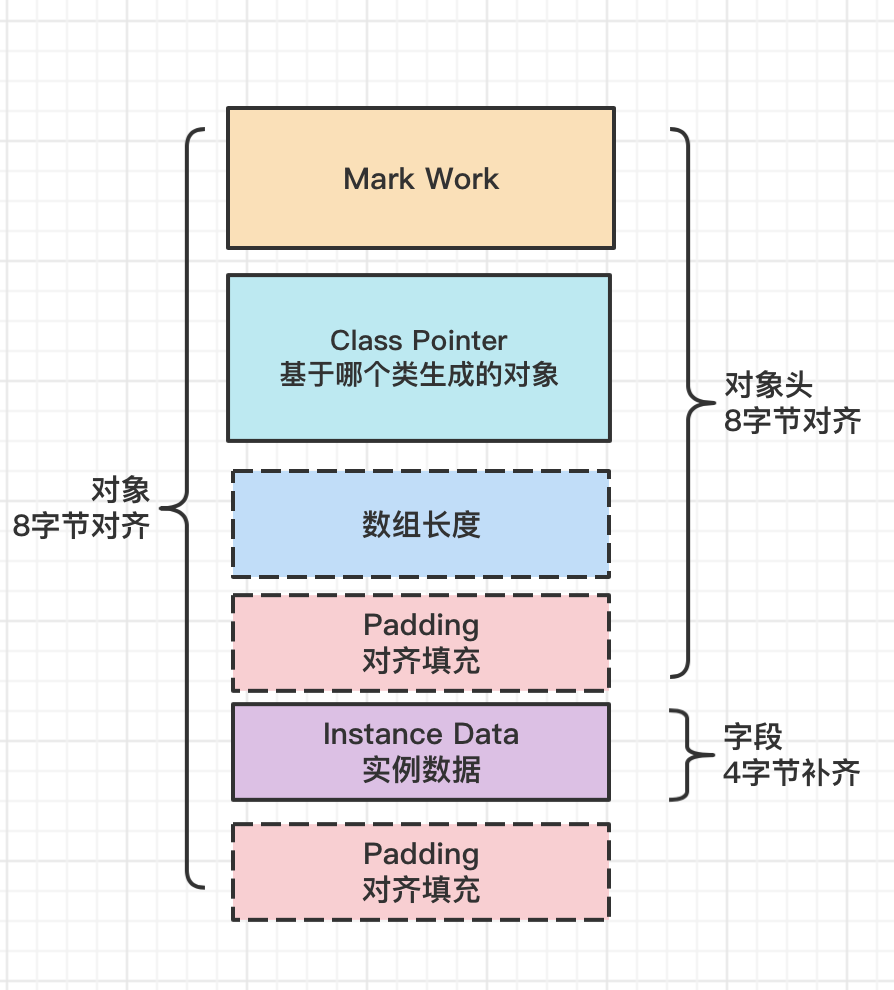
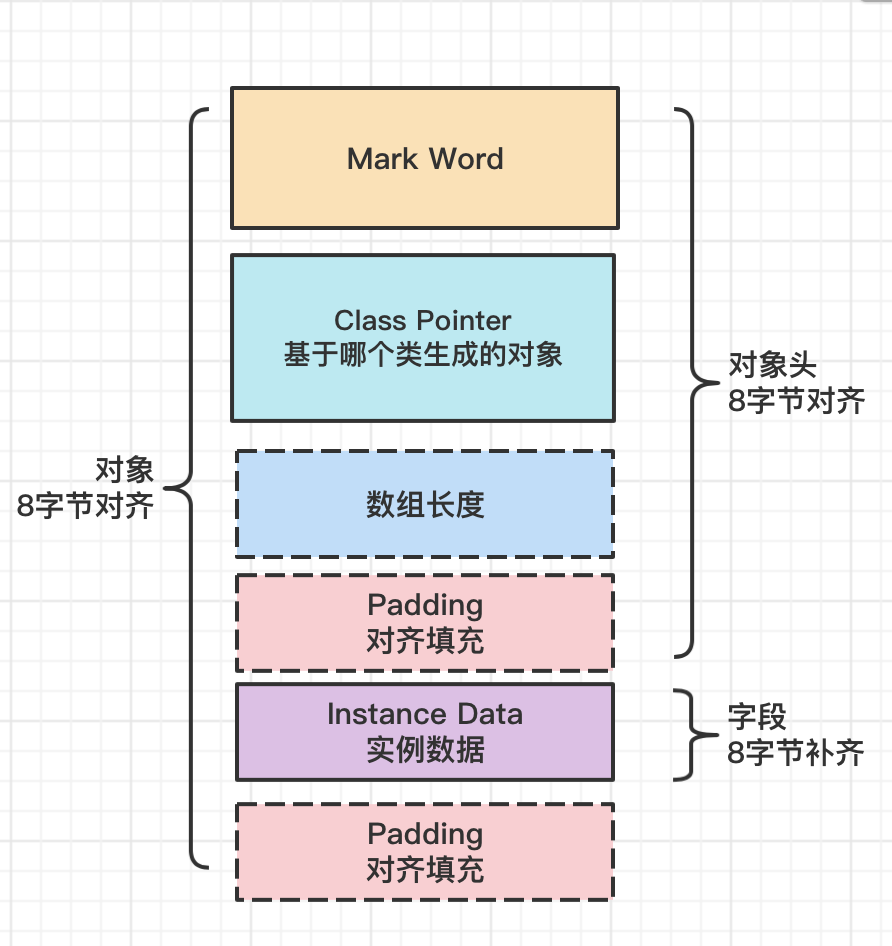
fix: 修改内容以及图片错别字

diff --git a/_posts/2022-04-10-Java对象的内存布局.md b/_posts/2022-04-10-Java对象的内存布局.md
@@ -35,7 +35,7 @@
 
 #### 详情
 
-* Mark Work
+* Mark Word
   * 4B: 32bit系统
   * 8B: 64bit系统
 * Class Pointer
@@ -62,7 +62,7 @@
 
 #### 详情
 
-* Mark Work
+* Mark Word
   * 4B: 32bit系统
   * 8B: 64bit系统
 * Class Pointer
@@ -123,7 +123,7 @@ public class EmptyObjectMemoryLayout {
 
 ![use-compress-empty-object](/img/assets/object-memory-layout/use-compress-empty-object.png)
 
-对象大小 = 对象头 + 类型指针 + 数组长度 + 实例数据(字段4字节补齐) + 对齐填充
+对象大小 = Mark Word + 类型指针 + 数组长度 + 实例数据(字段4字节补齐) + 对齐填充
 
 16B = (4 + 4) + 4 + 0 + 0 + 4(loss due to the next object alignment)
 
@@ -133,7 +133,7 @@ public class EmptyObjectMemoryLayout {
 
 ![not-use-compress-empty-object](/img/assets/object-memory-layout/not-use-compress-empty-object.png)
 
-对象大小 = 对象头 + 类型指针 + 数组长度 + 实例数据(字段4字节补齐) + 对齐填充
+对象大小 = Mark Word + 类型指针 + 数组长度 + 实例数据(字段4字节补齐) + 对齐填充
 
 16B = (4 + 4) + (4 +  4) + 0 + 0 + 0
 
@@ -171,7 +171,7 @@ class Person {
 
 ![ordinary-object-use-compressed-oops](/img/assets/object-memory-layout/ordinary-object-use-compressed-oops.png)
 
-对象大小 = 对象头 + 类型指针 + 数组长度 + 实例数据(字段4字节补齐) + 对齐填充
+对象大小 = Mark Word + 类型指针 + 数组长度 + 实例数据(字段4字节补齐) + 对齐填充
 
 24B = (4 + 4) + 4 + 0 + (4 + 4) + 4
 
@@ -183,7 +183,7 @@ class Person {
 
 ![ordinary-object-not-use-compressed-oops](/img/assets/object-memory-layout/ordinary-object-not-use-compressed-oops.png)
 
-对象大小 = 对象头 + 类型指针 + 数组长度 + 实例数据(字段4字节补齐) + 对齐填充 
+对象大小 = Mark Word + 类型指针 + 数组长度 + 实例数据(字段4字节补齐) + 对齐填充 
 
 32B = (4 + 4) + (4 + 4) + 0 + (4 + 4(alignment/padding gap) + 8) + 0 
 
@@ -215,7 +215,7 @@ public class ArrayObjectMemoryLayout {
 
 ![array-object-use-compressed-oops](/img/assets/object-memory-layout/array-object-use-compressed-oops.png)
 
-对象大小 = 对象头 + 类型指针 + 数组长度 + 实例数据(字段4字节补齐) + 对齐填充 
+对象大小 = Mark Word + 类型指针 + 数组长度 + 实例数据(字段4字节补齐) + 对齐填充 
 
 56B = (4 + 4) + (4) + 4 + 40
 
@@ -227,7 +227,7 @@ public class ArrayObjectMemoryLayout {
 
 ![array-object-not-use-compressed-oops](/img/assets/object-memory-layout/array-object-not-use-compressed-oops.png)
 
-对象大小 = 对象头 + 类型指针 + 数组长度 + 实例数据(字段4字节补齐) + 对齐填充
+对象大小 = Mark Word + 类型指针 + 数组长度 + 实例数据(字段4字节补齐) + 对齐填充
 
 64B = (4 + 4) + (4 + 4) + (4 + 4) + 40
 
